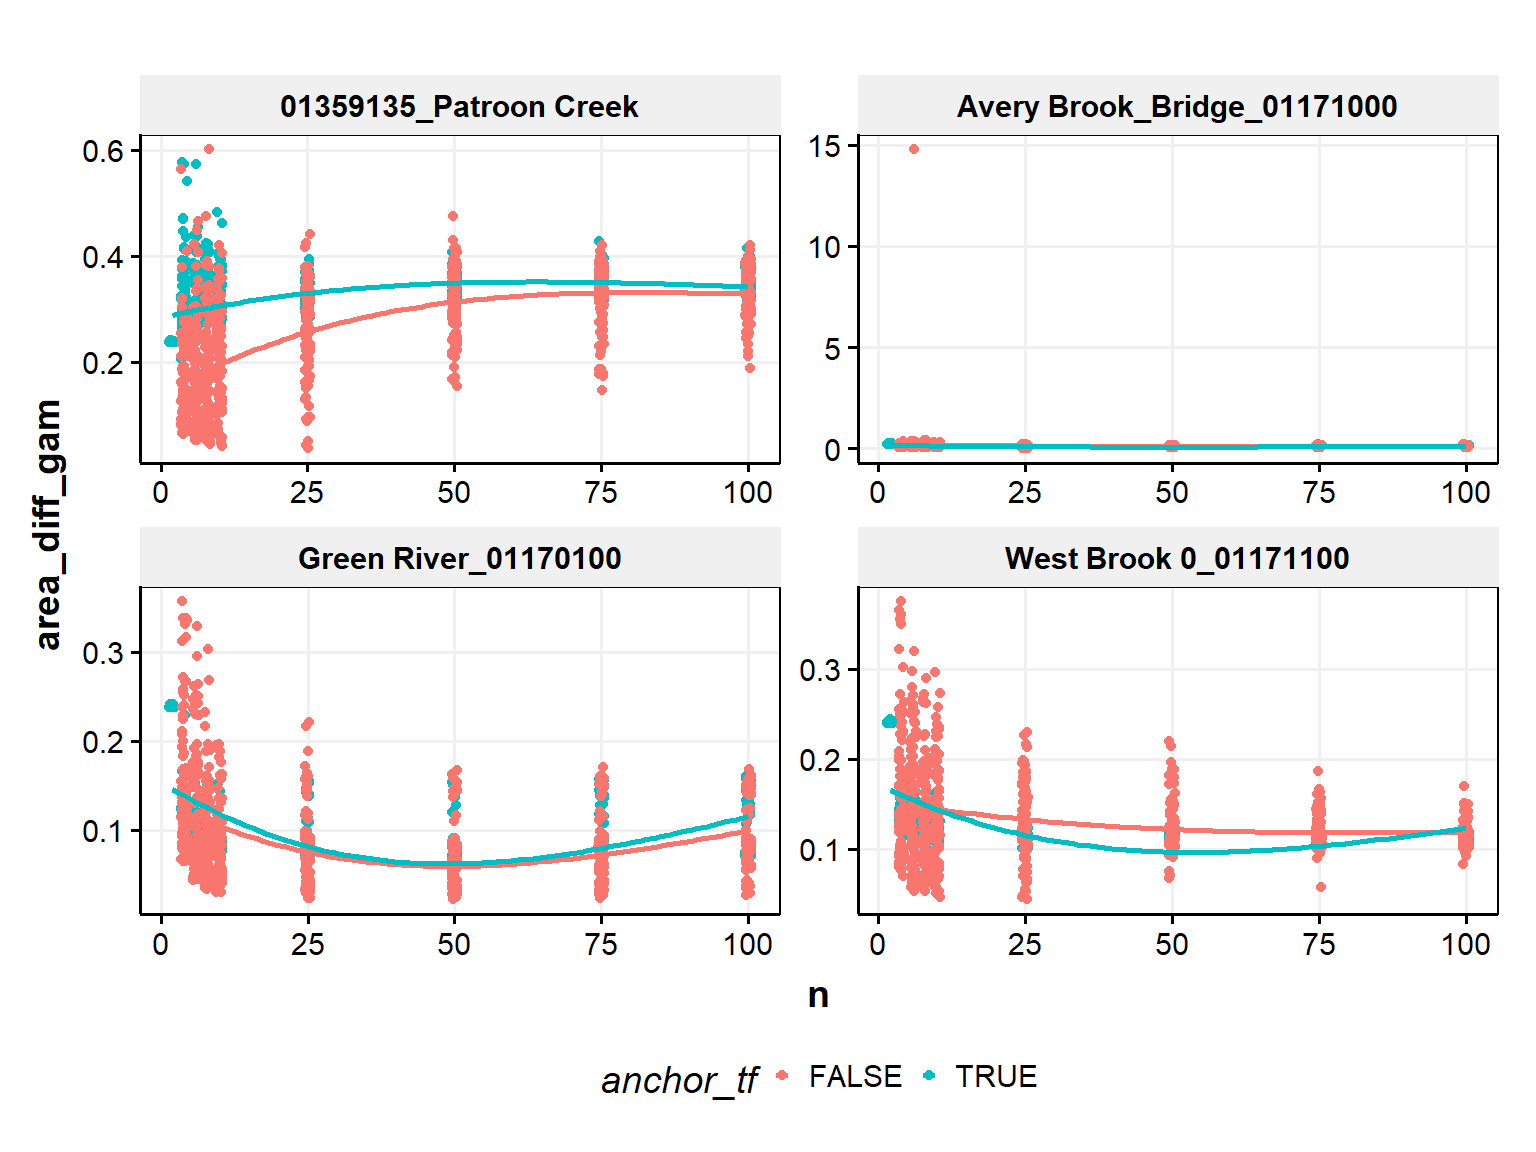
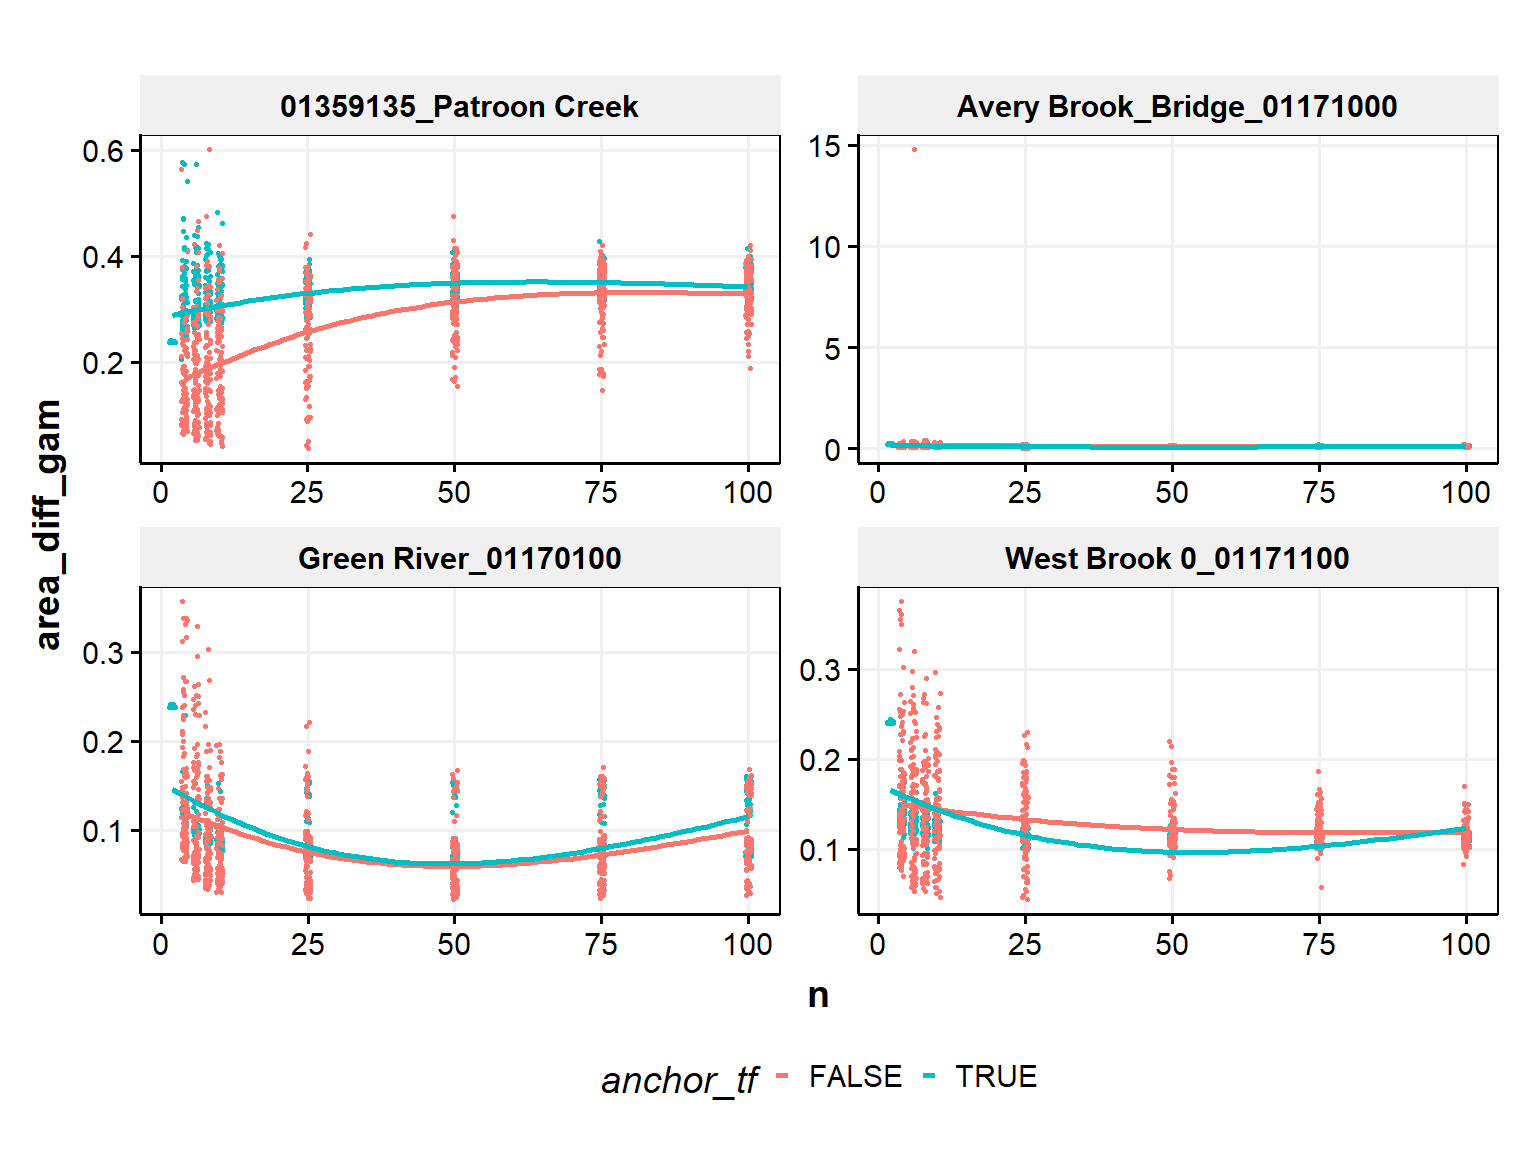
update

diff --git a/docs/realData.html b/docs/realData.html
@@ -1921,10 +1921,10 @@ $figs_smoothed_data_with_anchors</code></pre>
 <div class="cell">
 <details class="code-fold">
 <summary>Code</summary>
-<div class="sourceCode cell-code" id="cb121"><pre class="sourceCode r code-with-copy"><code class="sourceCode r"><span id="cb121-1"><a href="#cb121-1" aria-hidden="true" tabindex="-1"></a>dummy <span class="ot">&lt;-</span> <span class="dv">2</span></span>
+<div class="sourceCode cell-code" id="cb121"><pre class="sourceCode r code-with-copy"><code class="sourceCode r"><span id="cb121-1"><a href="#cb121-1" aria-hidden="true" tabindex="-1"></a>dummy <span class="ot">&lt;-</span> <span class="dv">1</span></span>
 <span id="cb121-2"><a href="#cb121-2" aria-hidden="true" tabindex="-1"></a></span>
 <span id="cb121-3"><a href="#cb121-3" aria-hidden="true" tabindex="-1"></a><span class="fu">ggplot</span>(sim_diffs_out, <span class="fu">aes</span>(n, area_diff_interp, <span class="at">color =</span> anchor_tf)) <span class="sc">+</span></span>
-<span id="cb121-4"><a href="#cb121-4" aria-hidden="true" tabindex="-1"></a>  <span class="fu">geom_jitter</span>(<span class="at">width =</span> <span class="fl">0.5</span>) <span class="sc">+</span></span>
+<span id="cb121-4"><a href="#cb121-4" aria-hidden="true" tabindex="-1"></a>  <span class="fu">geom_jitter</span>(<span class="at">width =</span> <span class="fl">0.5</span>,  <span class="at">size =</span> <span class="fl">0.5</span>) <span class="sc">+</span></span>
 <span id="cb121-5"><a href="#cb121-5" aria-hidden="true" tabindex="-1"></a>  <span class="fu">geom_smooth</span>(<span class="at">method =</span> <span class="st">"gam"</span>, </span>
 <span id="cb121-6"><a href="#cb121-6" aria-hidden="true" tabindex="-1"></a>              <span class="at">formula =</span> y <span class="sc">~</span> <span class="fu">s</span>(x, <span class="at">bs =</span> <span class="st">"cs"</span>, <span class="at">k =</span> <span class="dv">3</span>), <span class="at">se =</span> <span class="cn">FALSE</span>) <span class="sc">+</span></span>
 <span id="cb121-7"><a href="#cb121-7" aria-hidden="true" tabindex="-1"></a>  <span class="co">#geom_smooth(method = "lm", </span></span>
@@ -1948,10 +1948,10 @@ $figs_smoothed_data_with_anchors</code></pre>
 <div class="cell">
 <details class="code-fold">
 <summary>Code</summary>
-<div class="sourceCode cell-code" id="cb122"><pre class="sourceCode r code-with-copy"><code class="sourceCode r"><span id="cb122-1"><a href="#cb122-1" aria-hidden="true" tabindex="-1"></a>dummy <span class="ot">&lt;-</span> <span class="dv">2</span></span>
+<div class="sourceCode cell-code" id="cb122"><pre class="sourceCode r code-with-copy"><code class="sourceCode r"><span id="cb122-1"><a href="#cb122-1" aria-hidden="true" tabindex="-1"></a>dummy <span class="ot">&lt;-</span> <span class="dv">1</span></span>
 <span id="cb122-2"><a href="#cb122-2" aria-hidden="true" tabindex="-1"></a></span>
 <span id="cb122-3"><a href="#cb122-3" aria-hidden="true" tabindex="-1"></a><span class="fu">ggplot</span>(sim_diffs_out, <span class="fu">aes</span>(n, area_diff_gam, <span class="at">color =</span> anchor_tf)) <span class="sc">+</span></span>
-<span id="cb122-4"><a href="#cb122-4" aria-hidden="true" tabindex="-1"></a>  <span class="fu">geom_jitter</span>(<span class="at">width =</span> <span class="fl">0.5</span>) <span class="sc">+</span></span>
+<span id="cb122-4"><a href="#cb122-4" aria-hidden="true" tabindex="-1"></a>  <span class="fu">geom_jitter</span>(<span class="at">width =</span> <span class="fl">0.5</span>, <span class="at">size =</span> <span class="fl">0.5</span>) <span class="sc">+</span></span>
 <span id="cb122-5"><a href="#cb122-5" aria-hidden="true" tabindex="-1"></a>  <span class="fu">geom_smooth</span>(<span class="at">method =</span> <span class="st">"gam"</span>, </span>
 <span id="cb122-6"><a href="#cb122-6" aria-hidden="true" tabindex="-1"></a>              <span class="at">formula =</span> y <span class="sc">~</span> <span class="fu">s</span>(x, <span class="at">bs =</span> <span class="st">"cs"</span>, <span class="at">k =</span> <span class="dv">3</span>), <span class="at">se =</span> <span class="cn">FALSE</span>) <span class="sc">+</span></span>
 <span id="cb122-7"><a href="#cb122-7" aria-hidden="true" tabindex="-1"></a>  <span class="fu">facet_wrap</span>(<span class="sc">~</span>station_name, <span class="at">scales =</span> <span class="st">"free"</span>) <span class="sc">+</span></span>
@@ -3530,10 +3530,10 @@ window.document.addEventListener("DOMContentLoaded", function (event) {
 <span id="cb132-885"><a href="#cb132-885" aria-hidden="true" tabindex="-1"></a><span class="fu">#### Linear interpolation between flow points</span></span>
 <span id="cb132-888"><a href="#cb132-888" aria-hidden="true" tabindex="-1"></a><span class="in">```{r}</span></span>
 <span id="cb132-889"><a href="#cb132-889" aria-hidden="true" tabindex="-1"></a><span class="co">#| label: graphAreaDiff_interp</span></span>
-<span id="cb132-890"><a href="#cb132-890" aria-hidden="true" tabindex="-1"></a>dummy <span class="ot">&lt;-</span> <span class="dv">2</span></span>
+<span id="cb132-890"><a href="#cb132-890" aria-hidden="true" tabindex="-1"></a>dummy <span class="ot">&lt;-</span> <span class="dv">1</span></span>
 <span id="cb132-891"><a href="#cb132-891" aria-hidden="true" tabindex="-1"></a></span>
 <span id="cb132-892"><a href="#cb132-892" aria-hidden="true" tabindex="-1"></a><span class="fu">ggplot</span>(sim_diffs_out, <span class="fu">aes</span>(n, area_diff_interp, <span class="at">color =</span> anchor_tf)) <span class="sc">+</span></span>
-<span id="cb132-893"><a href="#cb132-893" aria-hidden="true" tabindex="-1"></a>  <span class="fu">geom_jitter</span>(<span class="at">width =</span> <span class="fl">0.5</span>) <span class="sc">+</span></span>
+<span id="cb132-893"><a href="#cb132-893" aria-hidden="true" tabindex="-1"></a>  <span class="fu">geom_jitter</span>(<span class="at">width =</span> <span class="fl">0.5</span>,  <span class="at">size =</span> <span class="fl">0.5</span>) <span class="sc">+</span></span>
 <span id="cb132-894"><a href="#cb132-894" aria-hidden="true" tabindex="-1"></a>  <span class="fu">geom_smooth</span>(<span class="at">method =</span> <span class="st">"gam"</span>, </span>
 <span id="cb132-895"><a href="#cb132-895" aria-hidden="true" tabindex="-1"></a>              <span class="at">formula =</span> y <span class="sc">~</span> <span class="fu">s</span>(x, <span class="at">bs =</span> <span class="st">"cs"</span>, <span class="at">k =</span> <span class="dv">3</span>), <span class="at">se =</span> <span class="cn">FALSE</span>) <span class="sc">+</span></span>
 <span id="cb132-896"><a href="#cb132-896" aria-hidden="true" tabindex="-1"></a>  <span class="co">#geom_smooth(method = "lm", </span></span>
@@ -3548,10 +3548,10 @@ window.document.addEventListener("DOMContentLoaded", function (event) {
 <span id="cb132-905"><a href="#cb132-905" aria-hidden="true" tabindex="-1"></a><span class="fu">#### GAM fit across flow points</span></span>
 <span id="cb132-908"><a href="#cb132-908" aria-hidden="true" tabindex="-1"></a><span class="in">```{r}</span></span>
 <span id="cb132-909"><a href="#cb132-909" aria-hidden="true" tabindex="-1"></a><span class="co">#| label: graphAreaDiff_gam</span></span>
-<span id="cb132-910"><a href="#cb132-910" aria-hidden="true" tabindex="-1"></a>dummy <span class="ot">&lt;-</span> <span class="dv">2</span></span>
+<span id="cb132-910"><a href="#cb132-910" aria-hidden="true" tabindex="-1"></a>dummy <span class="ot">&lt;-</span> <span class="dv">1</span></span>
 <span id="cb132-911"><a href="#cb132-911" aria-hidden="true" tabindex="-1"></a></span>
 <span id="cb132-912"><a href="#cb132-912" aria-hidden="true" tabindex="-1"></a><span class="fu">ggplot</span>(sim_diffs_out, <span class="fu">aes</span>(n, area_diff_gam, <span class="at">color =</span> anchor_tf)) <span class="sc">+</span></span>
-<span id="cb132-913"><a href="#cb132-913" aria-hidden="true" tabindex="-1"></a>  <span class="fu">geom_jitter</span>(<span class="at">width =</span> <span class="fl">0.5</span>) <span class="sc">+</span></span>
+<span id="cb132-913"><a href="#cb132-913" aria-hidden="true" tabindex="-1"></a>  <span class="fu">geom_jitter</span>(<span class="at">width =</span> <span class="fl">0.5</span>, <span class="at">size =</span> <span class="fl">0.5</span>) <span class="sc">+</span></span>
 <span id="cb132-914"><a href="#cb132-914" aria-hidden="true" tabindex="-1"></a>  <span class="fu">geom_smooth</span>(<span class="at">method =</span> <span class="st">"gam"</span>, </span>
 <span id="cb132-915"><a href="#cb132-915" aria-hidden="true" tabindex="-1"></a>              <span class="at">formula =</span> y <span class="sc">~</span> <span class="fu">s</span>(x, <span class="at">bs =</span> <span class="st">"cs"</span>, <span class="at">k =</span> <span class="dv">3</span>), <span class="at">se =</span> <span class="cn">FALSE</span>) <span class="sc">+</span></span>
 <span id="cb132-916"><a href="#cb132-916" aria-hidden="true" tabindex="-1"></a>  <span class="fu">facet_wrap</span>(<span class="sc">~</span>station_name, <span class="at">scales =</span> <span class="st">"free"</span>) <span class="sc">+</span></span>

diff --git a/docs/index.html b/docs/index.html
@@ -7,7 +7,7 @@
 <meta name="viewport" content="width=device-width, initial-scale=1.0, user-scalable=yes">
 
 <meta name="author" content="Ben Letcher">
-<meta name="dcterms.date" content="2024-03-13">
+<meta name="dcterms.date" content="2024-03-14">
 
 <title>Relative to absolute flow</title>
 <style>
@@ -205,7 +205,7 @@ pre > code.sourceCode > span > a:first-child::before { text-decoration: underlin
     <div>
     <div class="quarto-title-meta-heading">Published</div>
     <div class="quarto-title-meta-contents">
-      <p class="date">March 13, 2024</p>
+      <p class="date">March 14, 2024</p>
     </div>
   </div>
   
